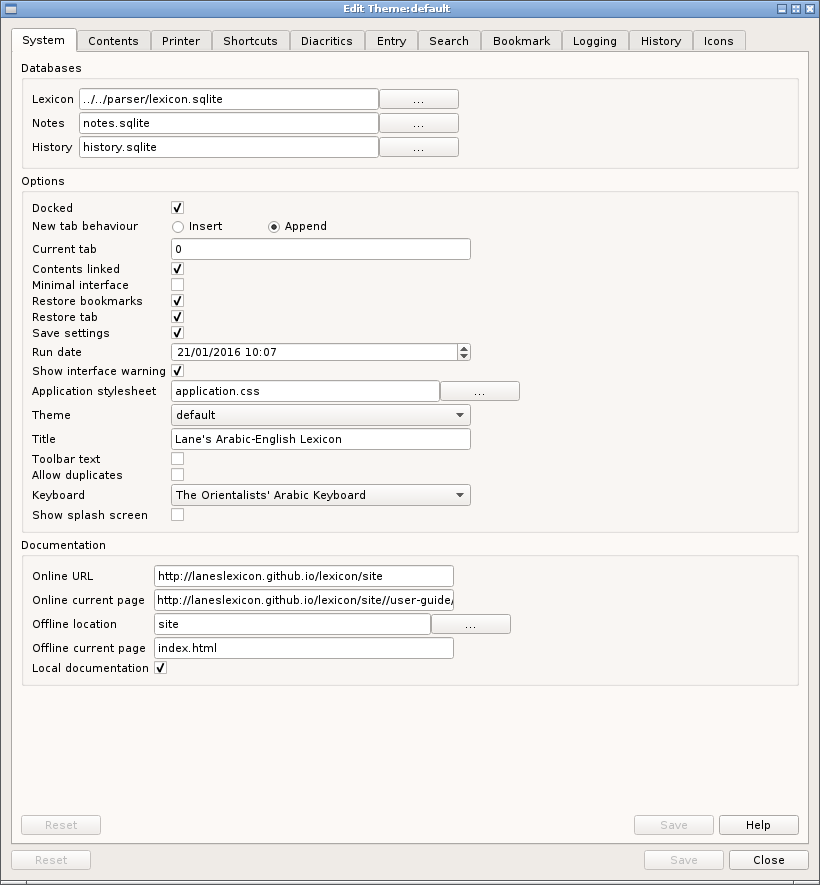
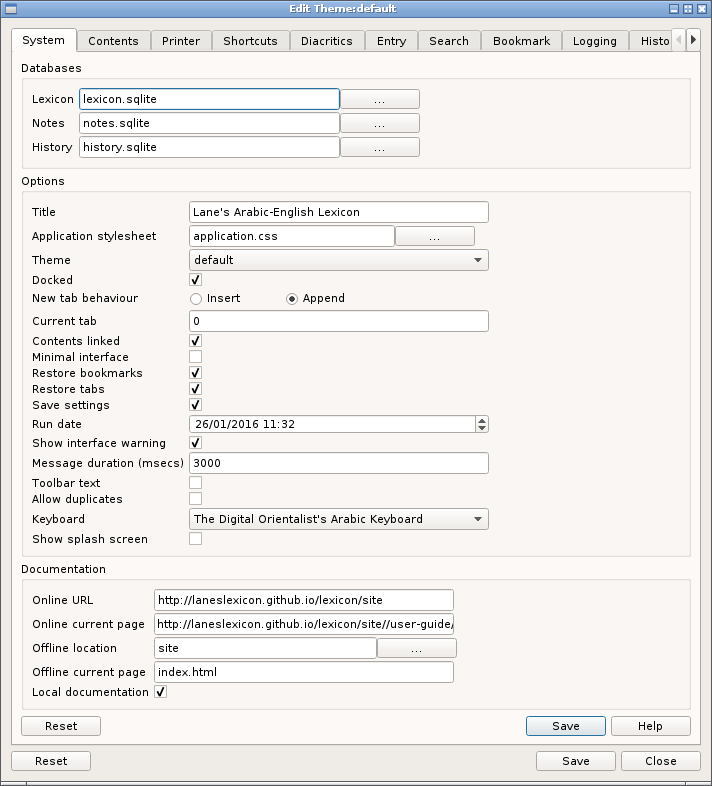
forgot to do mkdocs build --clean before last commit

Changed region(s): [[0.0, 0.0, 1.0, 1.0], [0.6489, 0.5191, 0.6798, 0.5496], [0.6489, 0.3053, 0.6798, 0.3359]]

diff --git a/site/options/options_history/index.html b/site/options/options_history/index.html
@@ -283,6 +283,27 @@
         
             <ul>
             
+                <li class="toctree-l3"><a href="#enabled">Enabled</a></li>
+                
+            
+                <li class="toctree-l3"><a href="#menu-font">Menu font</a></li>
+                
+            
+                <li class="toctree-l3"><a href="#menu-format">Menu format</a></li>
+                
+            
+                <li class="toctree-l3"><a href="#open-in-new-tabgo-to-new-tab">Open in new tab/Go to new tab</a></li>
+                
+            
+                <li class="toctree-l3"><a href="#duplicate-search-depth">Duplicate search depth</a></li>
+                
+            
+                <li class="toctree-l3"><a href="#menu-entries-limit">Menu entries limit</a></li>
+                
+            
+                <li class="toctree-l3"><a href="#maximum-database-records">Maximum database records</a></li>
+                
+            
             </ul>
         
     </li>
@@ -542,7 +563,57 @@
           <div role="main">
             <div class="section">
               
-                
+                <p><img alt="History options" src="../../images/options_history.png" /></p>
+<h4 id="enabled">Enabled</h4>
+<h4 id="menu-font">Menu font</h4>
+<p>Use the button to set the font for the items in the menu drop down list.</p>
+<h4 id="menu-format">Menu format</h4>
+<p>In the format text, replace the code by the value according to these rules:</p>
+<table>
+<thead>
+<tr>
+<th>Code</th>
+<th>Replace with</th>
+</tr>
+</thead>
+<tbody>
+<tr>
+<td>%R</td>
+<td>root</td>
+</tr>
+<tr>
+<td>%H</td>
+<td>headword</td>
+</tr>
+<tr>
+<td>%N</td>
+<td>node number</td>
+</tr>
+<tr>
+<td>%V</td>
+<td>volume</td>
+</tr>
+<tr>
+<td>%P</td>
+<td>page</td>
+</tr>
+</tbody>
+</table>
+<p>Blocks delimited by ?&lt;R/H/N/V/P&gt; will only be evaluated if the corresponding item is not empty.</p>
+<p>For example in:
+    ?N(Node %N)?N</p>
+<ul>
+<li>if the node is "n1234", then text "(Node n1234") will appear</li>
+<li>if the node is "", then no text will appear</li>
+</ul>
+<h4 id="open-in-new-tabgo-to-new-tab">Open in new tab/Go to new tab</h4>
+<p>When viewing history items, this controls where to show the item.</p>
+<h4 id="duplicate-search-depth">Duplicate search depth</h4>
+<p>When adding history entries, check back this many items and do not add the current item if it is already in the history.</p>
+<h4 id="menu-entries-limit">Menu entries limit</h4>
+<p>The maximum number of menu tiems to show on the <em>Main menu -&gt; History</em> drop down.</p>
+<h4 id="maximum-database-records">Maximum database records</h4>
+<p>The maximum number of records that can be saved in the database.</p>
               
             </div>
           </div>

diff --git a/site/options/options_system/index.html b/site/options/options_system/index.html
@@ -244,6 +244,9 @@
                 <li class="toctree-l3"><a href="#keyboard">Keyboard</a></li>
                 
             
+                <li class="toctree-l3"><a href="#message-duration">Message duration</a></li>
+                
+            
                 <li class="toctree-l3"><a href="#show-splash-screen">Show splash screen</a></li>
                 
             
@@ -574,8 +577,8 @@
               
                 <p><img alt="System Options" src="../../images/options_system.png" /></p>
 <h4 id="databases">Databases</h4>
-<p>The Lexicon database holds all the entries in the lexicon.</p>
-<p>The notes database stores user notes and pageset information.</p>
+<p>The Lexicon database is the main system databae and holds all the entries in the lexicon.</p>
+<p>The notes database stores user notes and pageset information while the history database stores visited locations for later retrieval (if enabled, see <a href="../options_history/">here</a>).</p>
 <h4 id="new-tab-behaviour">New tab behaviour</h4>
 <p>New tabs can be either inserted after the current tab or added at the end of the current tabs.</p>
 <h4 id="contents-linked">Contents linked</h4>
@@ -588,9 +591,11 @@
 <h4 id="toolbar-text">Toolbar text</h4>
 <p>When checked, short text descriptions of the toolbar icons are shown underneath the icon.</p>
 <h4 id="allow-duplicates">Allow duplicates</h4>
-<p>When not checked, a root cannot be shown in more that one tab</p>
+<p>When requesting a root or entry, the system checks whether the required entry is already visible in an existing tab and switches to that tab if it is. If this option is set, this check is skipped.</p>
 <h4 id="keyboard">Keyboard</h4>
-<p>The name of the current virtual keyboards. The drop-down box list the alternatives. (Details of virtual keyboards can be found <a href="../../dev-guide/vkeyboard/">here</a></p>
+<p>The name of the current virtual keyboard. The drop-down box list the alternatives. (Details of virtual keyboards can be found <a href="../../dev-guide/vkeyboard/">here</a></p>
+<h4 id="message-duration">Message duration</h4>
+<p>This setting specifies how long a message will remain on the status bar before being clear. Units are milliseconds.</p>
 <h4 id="show-splash-screen">Show splash screen</h4>
 <p>When checked, a random file from the images/splash subdirectory of the current theme directory is shown as the application starts.</p>
 <h4 id="documentation">Documentation</h4>

diff --git a/site/options/options_icons/index.html b/site/options/options_icons/index.html
@@ -290,6 +290,9 @@
         
             <ul>
             
+                <li class="toctree-l3"><a href="#image-directory">Image directory</a></li>
+                
+            
             </ul>
         
     </li>
@@ -542,7 +545,11 @@
           <div role="main">
             <div class="section">
               
-                
+                <p><img alt="Icons" src="../../images/options_icons.png" /></p>
+<h4 id="image-directory">Image directory</h4>
+<p>All the images are stored in the given directory which is part of the theme directory structure described <a href="../../custom/themes/">here</a>.</p>
+<p>Each entry shows the name of the file and a button showing the appearance of the icon. Clicking on the button will open a file browser dialog that can be used to set the file name.</p>
+<p><strong><em>Note</em></strong> The "Notes" file <em>must</em> be in X PixMap (xpm) format. (This is small icon that appears next to a lexicon entry to signify that it has an attached note. See <a href="../../user-guide/notes/">here</a>.)</p>
               
             </div>
           </div>

diff --git a/site/options/options_shortcuts/index.html b/site/options/options_shortcuts/index.html
@@ -829,7 +829,7 @@
 <tr>
 <td></td>
 <td>Add</td>
-<td>Ctrl+B, &l;tboomkark id&gt;</td>
+<td>Ctrl+B, &lt;boomkark id&gt;</td>
 <td></td>
 </tr>
 <tr>
@@ -865,8 +865,8 @@
 </tbody>
 </table>
 <p><strong>Note</strong>: shortcuts related to bookmarks are set <a href="../options_bookmarks/">here</a>. They are listed here for completeness.</p>
-<p><strong>Note</strong>: when setting shortcuts do not use the sequences that has been setup as the bookmark add and jump prefixes i.e Ctrl+B and Ctrl+J.</p>
-<p>Since the shortcuts are saved in the configuration file it is possible to set them by editing the file. When doing this always wrap the text in quotes, like this:</p>
+<p><strong>Note</strong>: when setting shortcuts do not use the sequences that has been setup as the bookmark add and jump prefixes i.e Ctrl+B and Ctrl+J in the above example.</p>
+<p>Since the shortcuts are saved in the configuration file it is possible to set them manually by editing the file. When doing this always wrap the text in quotes, like this:</p>
 <pre><code>Options="Ctrl+O,P"
 </code></pre>
 <p>Not like this:</p>

diff --git a/site/user-guide/history/index.html b/site/user-guide/history/index.html
@@ -542,7 +542,14 @@
           <div role="main">
             <div class="section">
               
-                
+                <p>The application will be preserve a history of roots visited (if enabled, see <a href="../../options/options_history/">here</a>).</p>
+<p>The history is visible in the <em>Main Menu -&gt; History</em> dropdown menu , although this may not show the entire history</p>
+<p><img alt="History menu" src="../../images/historymenu.png" /></p>
+<p>The text of the menu items and the maximum number that can be shown, can both be set via the history options.</p>
+<p>To view the entire history, use  <em>Main menu -&gt; History -&gt; List</em></p>
+<p><img alt="History List" src="../../images/historylist.png" /></p>
+<p>A history item can be viewed using the <em>Jump</em> button or via the keyboard using space or return.</p>
+<p>The number of history items that can be saved is limited by an <a href="../../options/options_history/">option</a> that defaults to 50.</p>
               
             </div>
           </div>

diff --git a/site/index.html b/site/index.html
@@ -585,5 +585,5 @@
 
 <!--
 MkDocs version : 0.14.0
-Build Date UTC : 2016-01-26 11:14:45.651534
+Build Date UTC : 2016-01-26 16:47:44.837025
 -->
